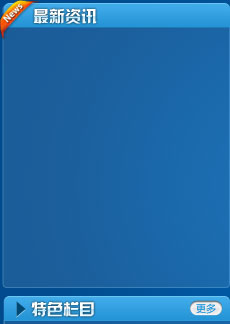
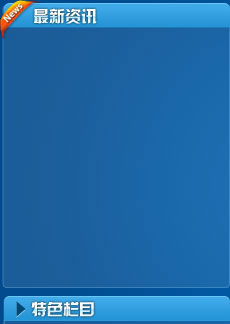
add content

Changed region(s): [[0.8217, 0.9259, 0.9739, 0.9877]]

diff --git a/demo/iptv/static/css/common.css b/demo/iptv/static/css/common.css
@@ -5,6 +5,9 @@ html, body{
 .u-head{
 	height: 70px;
 	background: url(../img/head.jpg) no-repeat left top;
+	text-align: right;
+	font-size: 18px;
+	color: #fff;
 }
 .u-nav{
 	height: 34px;
@@ -62,6 +65,54 @@ html, body{
 	overflow: hidden;
 	background: url(../img/tv.jpg) no-repeat left top;
 }
+.u-main .newslist{
+	height: 264px;
+	padding: 35px 9px 0;
+	font-size: 14px;
+	font-family: "Microsoft YaHei";
+}
+.u-main .newslist p{
+	height: 24px;
+	padding: 3px 0 0 8px;
+	border-bottom: solid 1px #155590;
+	overflow: hidden;
+}
+.u-main .newslist a{
+	display: block;
+	padding-left: 14px;
+	background: url(../img/round.png) no-repeat left 8px;
+	color: #fff;
+	text-decoration: none;
+}
+.u-main .bottommore{
+	width: 224px;
+	text-align: right;
+}
+.u-main .bottommore a{
+	display: inline-block;
+	width: 35px;
+	height: 18px;
+	overflow: hidden;
+	background: url(../img/more.gif) no-repeat left top;
+}
+.u-main .tvpic{
+	position: relative;
+	padding: 13px 0 0 14px;
+	width: 373px;
+	height: 292px;
+	overflow: hidden;
+}
+.u-main .tvpic img{
+	width: 100%;
+}
+.u-main .tvpic .play{
+	position: absolute;
+	width: 72px;
+	height: 72px;
+	top: 121px;
+	left: 169px;
+	background: url(../img/play.png) no-repeat left top;
+}
 
 .u-bottom{
 	margin: auto;
@@ -70,5 +121,17 @@ html, body{
 	overflow: hidden;
 	background: url(../img/bottom.jpg) no-repeat left top;
 }
-
-
+.u-bottom ul{
+	padding: 7px 0 0 20px;
+}
+.u-bottom li{
+	float: left;
+	margin-right: 16px;
+	width: 102px;
+	height: 65px;
+	border: solid 1px #8badcc;
+	overflow: hidden;
+}
+.u-bottom li img{
+	width: 100%;
+}
